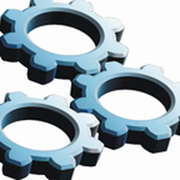
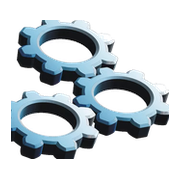
A fülikon kilógott és fehér téglalapban ült — újra a logóból készül (#241)
A böngészőfülön a jel levágott szélű foltként jelent meg, körülötte fehér
téglalappal. Az ok: a régi ikon a fogaskerekek KIVÁGÁSA volt, a rajz mind a
négy szélén túlfutott, és átlátszatlan fehér háttéren ült. A fül 16 képpontos
keretében ebből annyi látszott, amennyi a kép közepéből belefér — sötét témájú
böngészőben a fehér doboz külön feltűnt.

Az ikonok mostantól a logó átlátszó változatából készülnek, szkripttel, hogy
egy későbbi logócsere után ne kelljen kézzel újrarajzolni őket. A vágás helye
nincs találgatva: a felirat és a kerekek között nincs teljesen üres oszlop, a
„Y” farka átnyúlik, ezért a vágási pontot képkockánként mértem ki — 325-nél
még benne van a betű, 355-nél már sérül a bal kerék, 340 a tiszta határ. A
csoport négyzetes vászon közepére kerül, körben 6% margóval: enélkül a rajz a
keret széléhez ragadna, és megint levágottnak látszana.

Négy fájl készül belőle, és a különbségeik szándékosak:

  - src/app/icon.png (256×256, átlátszó) — a fülikon. 256 és nem 512, mert
    ezt minden látogató letölti, a fülre pedig 16-32 képpont kerül belőle:
    178 kB helyett 61 kB, ugyanaz a kép.
  - public/favicon.ico — négy méret egy fájlban (16/32/48/64). Ha csak egy
    volna benne, a többit a böngésző skálázná, és 16 képponton mosott lenne.
  - src/app/apple-icon.png (180×180, FEHÉR alapon) — itt az átlátszóság
    hiba volna: az iOS a home képernyőn feketére komponálja, tehát a logó
    fekete négyzetben ülne.
[…]

diff --git a/scripts/ikonok.py b/scripts/ikonok.py
@@ -1,0 +1,106 @@
+#!/usr/bin/env python3
+"""
+A böngészőfül- és a készülékikonok előállítása a logó fogaskerekeiből.
+
+Miért kellett ez. A korábbi ikonok a fogaskerekek KIVÁGÁSAI voltak: a rajz
+mind a négy szélén túlfutott, és fehér, átlátszatlan háttéren ült. Egy
+böngészőfülön ez pont annyit mutatott, amennyi egy 16 képpontos négyzetbe
+belefér a kép közepéből — vagyis egy levágott szélű folt, körülötte fehér
+téglalappal, ami sötét témájú böngészőben külön feltűnt.
+
+Amit ez a szkript csinál:
+
+  1. A logó ÁTLÁTSZÓ változatából kivágja a fogaskerék-csoportot. A vágás
+     helye nem találgatás: a felirat és a kerekek között nincs teljesen üres
+     oszlop (a „Y” farka átnyúlik), ezért a vágási pont képkockánként lett
+     kimérve, és az átlátszósági doboz vágja pontosra.
+  2. Négyzetes vászon közepére teszi, arányosan kicsinyítve, KÖRBEN
+     margóval. A margó nem díszítés: enélkül a rajz a fül ikonkeretének
+     széléhez ragadna, és megint levágottnak látszana.
+  3. Az átlátszóságot végig megtartja — a fül háttere világos és sötét
+     témában is átüt.
+
+A készülékikon (apple-icon) KIVÉTEL: az iOS a home képernyőn nem tiszteli
+az átlátszóságot, feketére komponálja. Ott tehát szándékosan fehér alap van.
+
+Használat:
+    python3 scripts/ikonok.py
+"""
+
+import pathlib
+
+from PIL import Image
+
+GYOKER = pathlib.Path(__file__).resolve().parent.parent
+FORRAS = GYOKER / 'public/images/brand/blueway-logo-still-atlatszo.png'
+
+# A fogaskerék-csoport kezdete a logón belül. Kimérve: 325-nél még benne van
+# a „Y” farka, 355-nél már sérül a bal kerék. 340 a tiszta vágás.
+KEREKEK_X = 340
+
+# Margó a négyzet oldalhosszának arányában, körben. 6% éppen annyi, hogy a
+# rajz ne érjen a kerethez, de a fül apró ikonján se vesszen el.
+MARGO = 0.06
+
+
+def fogaskerekek() -> Image.Image:
+    """A fogaskerék-csoport, pontosan a tartalmára vágva."""
+    logo = Image.open(FORRAS).convert('RGBA')
+    kivagas = logo.crop((KEREKEK_X, 0, logo.width, logo.height))
+    doboz = kivagas.getchannel('A').getbbox()
+    if doboz is None:
+        raise SystemExit('A kivágás üres — a KEREKEK_X érték rossz.')
+    return kivagas.crop(doboz)
+
+
+def negyzetre(kep: Image.Image, oldal: int, hatter=None) -> Image.Image:
+    """Négyzetes vászon közepére, arányosan, körben margóval."""
+    belso = int(oldal * (1 - 2 * MARGO))
+    arany = min(belso / kep.width, belso / kep.height)
+    meret = (max(1, round(kep.width * arany)), max(1, round(kep.height * arany)))
+    kicsi = kep.resize(meret, Image.LANCZOS)
+
+    vaszon = Image.new('RGBA', (oldal, oldal), hatter or (0, 0, 0, 0))
+    vaszon.paste(kicsi, ((oldal - meret[0]) // 2, (oldal - meret[1]) // 2), kicsi)
+    return vaszon
+
+
+def main() -> None:
+    kerekek = fogaskerekek()
+    print(f'fogaskerék-csoport: {kerekek.width}×{kerekek.height}')
+
+    # A böngészőfül ikonja.
+    #
+    # 256 és nem 512: ezt a fájlt MINDEN látogató letölti, a fülre pedig 16
+    # vagy 32 képpont kerül belőle. Az 512-es változat 178 kB volt, a 256-os
+    # 61 — ugyanaz a kép, harmadannyi. A 256 még mindig nyolcszorosa annak,
+    # amit a fül kér, és bőven a készülékikon 180 fölött.
+    ful = GYOKER / 'src/app/icon.png'
+    negyzetre(kerekek, 256).save(ful, optimize=True)
+    print(f'  {ful.relative_to(GYOKER)} — 256×256, átlátszó')
+
+    # A klasszikus favicon.ico. Három méret egy fájlban: a böngészők a fülre
+    # a 16-ost, a könyvjelzősávra és a lapváltóra a nagyobbakat kérik. Ha
+    # csak egy méret volna benne, a többit a böngésző skálázná — az pedig
+    # 16 képponton mosott lesz.
+    ico = GYOKER / 'public/favicon.ico'
+    negyzetre(kerekek, 256).save(ico, sizes=[(16, 16), (32, 32), (48, 48), (64, 64)])
+    print(f'  {ico.relative_to(GYOKER)} — 16/32/48/64, átlátszó')
+
+    # A készülékikon. Itt fehér alap kell: az iOS az átlátszót feketére
+    # komponálja, tehát átlátszóan mentve fekete négyzetben ülne a logó.
+    alma = GYOKER / 'src/app/apple-icon.png'
+    negyzetre(kerekek, 180, hatter=(255, 255, 255, 255)).convert('RGB').save(alma)
+    print(f'  {alma.relative_to(GYOKER)} — 180×180, fehér alapon')
+
+    # A bluewaytrade.us átmeneti lapja a saját favicon.ico-ját kapja (lásd a
+    # .htaccess átírását). Ugyanaz a fájl volt benne, tehát ugyanaz a hiba —
+    # egy javítás, két hely.
+    us = GYOKER / 'server/us-atmeneti/favicon.ico'
+    if us.parent.is_dir():
+        negyzetre(kerekek, 256).save(us, sizes=[(16, 16), (32, 32), (48, 48), (64, 64)])
+        print(f'  {us.relative_to(GYOKER)} — 16/32/48/64, átlátszó')
+
+
+if __name__ == '__main__':
+    main()
